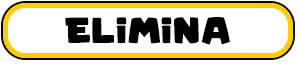
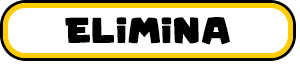
Aggiunte animazioni a tutti i bottoni

Changed region(s): [[0.03, 0.1231, 0.99, 0.9538], [0.0, 0.0, 0.96, 0.8308]]

diff --git a/src/RemoveUser.java b/src/RemoveUser.java
@@ -107,7 +107,7 @@ public class RemoveUser extends JLayeredPane{
 		
 		
 		JButton elimina = new JButton("");
-		elimina.setIcon(new ImageIcon("Images/deletebutton-over.png"));
+		elimina.setIcon(new ImageIcon("Images/deletebutton.png"));
 		elimina.setRolloverIcon(new ImageIcon("Images/deletebutton-over.png"));
 		elimina.setPressedIcon(new ImageIcon("Images/deletebutton-pressed.png"));
 		this.setLayer(elimina, 2);

diff --git a/src/UserEdited.java b/src/UserEdited.java
@@ -105,6 +105,9 @@ public class UserEdited extends JLayeredPane {
 			
 		this.setLayer(modifica, 2);
 		modifica.setIcon(new ImageIcon("Images/modifica.png"));
+		modifica.setRolloverIcon(new ImageIcon("Images/modifica-over.png"));
+		modifica.setPressedIcon(new ImageIcon("Images/modifica-pressed.png"));
+		
 		modifica.setBounds(538, 377, 198, 61);
 		this.add(modifica);
 		modifica.setBorderPainted(false); 

diff --git a/src/EditUser.java b/src/EditUser.java
@@ -106,7 +106,7 @@ public class EditUser extends JLayeredPane{
 		
 		
 		JButton modifica = new JButton("");
-		modifica.setIcon(new ImageIcon("Images/modifica-over.png"));
+		modifica.setIcon(new ImageIcon("Images/modifica.png"));
 		modifica.setRolloverIcon(new ImageIcon("Images/modifica-over.png"));
 		modifica.setPressedIcon(new ImageIcon("Images/modifica-pressed.png"));
 		this.setLayer(modifica, 2);

diff --git a/src/Stats.java b/src/Stats.java
@@ -97,7 +97,7 @@ public class Stats extends JLayeredPane{
 		
 		
 		JButton visualizza = new JButton("");
-		visualizza.setIcon(new ImageIcon("Images/view-over.png"));
+		visualizza.setIcon(new ImageIcon("Images/view.png"));
 		visualizza.setRolloverIcon(new ImageIcon("Images/view-over.png"));
 		visualizza.setPressedIcon(new ImageIcon("Images/view-pressed.png"));
 		this.setLayer(visualizza, 2);

diff --git a/src/LoadMatch.java b/src/LoadMatch.java
@@ -122,7 +122,7 @@ public class LoadMatch extends JLayeredPane {
 		splitPane.setRightComponent(null);
 		
 		JButton gioca = new JButton("");
-		gioca.setIcon(new ImageIcon("Images/gioca-over.png"));
+		gioca.setIcon(new ImageIcon("Images/gioca.png"));
 		this.setLayer(gioca, 2);
 		gioca.setBounds(482, 589, 304, 69);
 		gioca.setBorderPainted(false); 

diff --git a/src/UsersPool.java b/src/UsersPool.java
@@ -142,7 +142,7 @@ public class UsersPool extends JLayeredPane{
 		
 		
 		JButton scegli = new JButton("");
-		scegli.setIcon(new ImageIcon("Images/gioca-over.png"));
+		scegli.setIcon(new ImageIcon("Images/gioca.png"));
 		this.setLayer(scegli, 2);
 		scegli.setBounds(481, 597, 304, 69);
 		scegli.setBorderPainted(false); 
